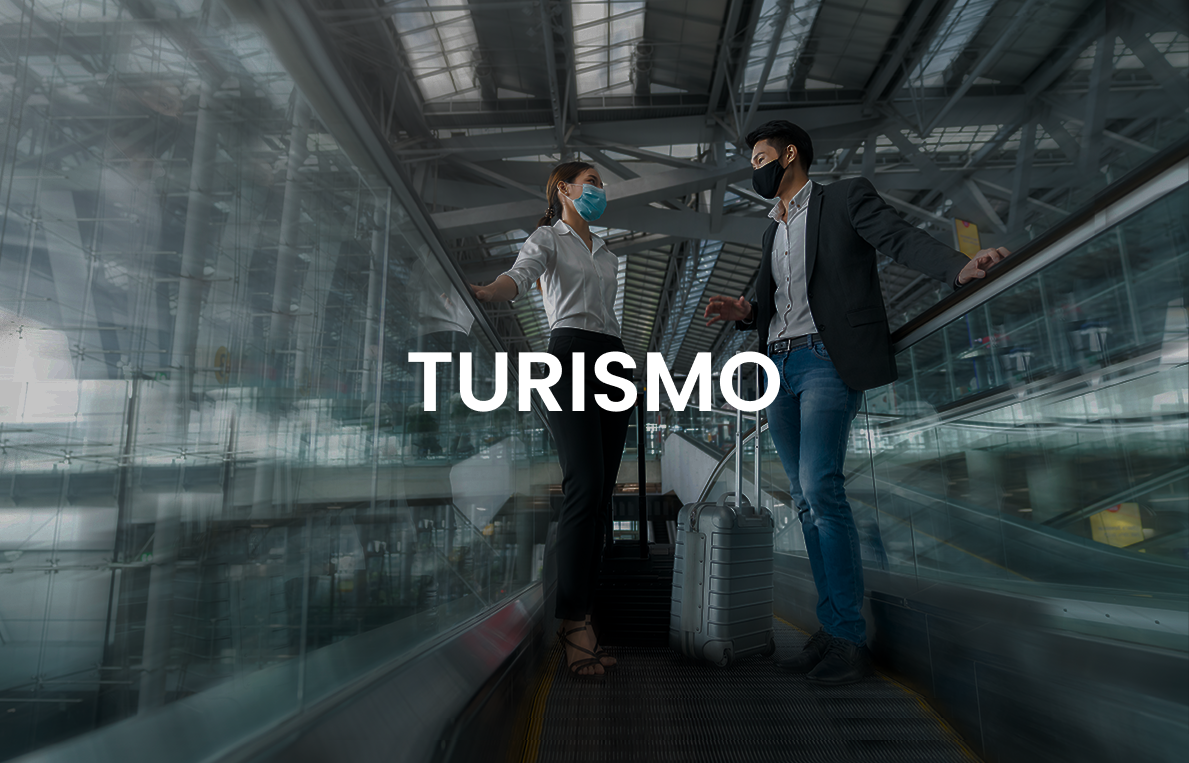
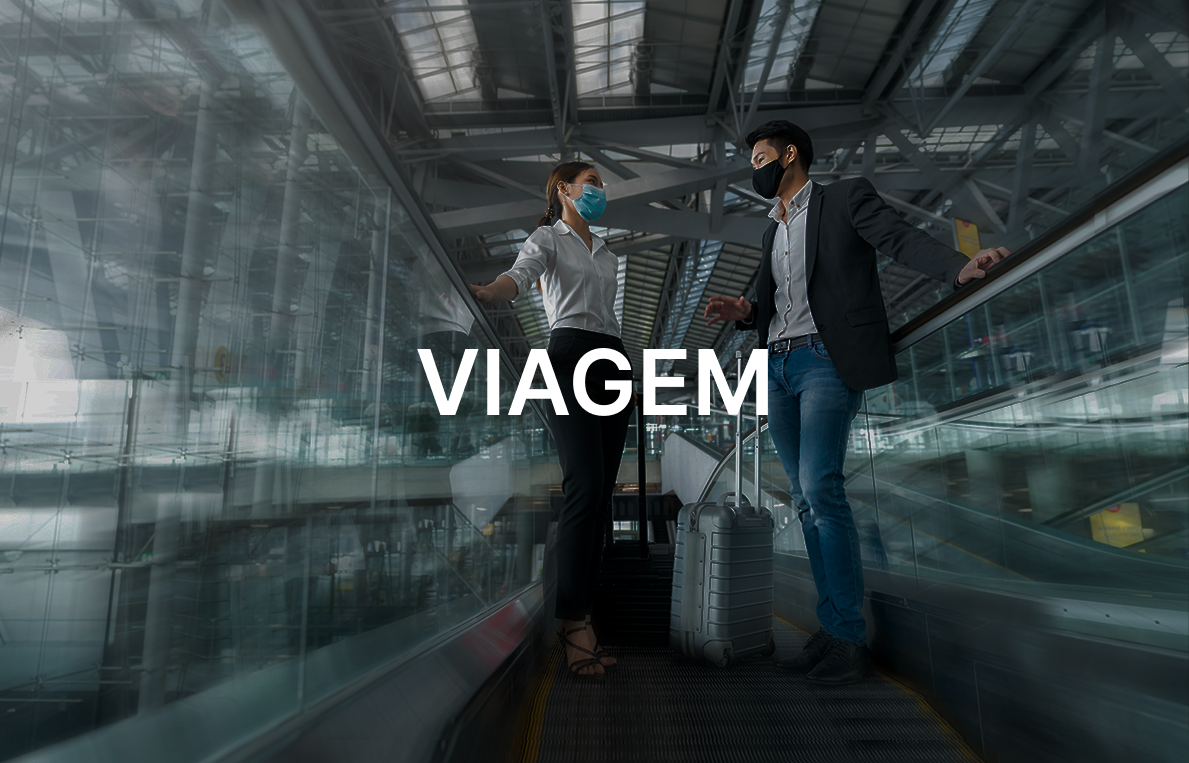
fixbangs

Changed region(s): [[0.3423, 0.4522, 0.6535, 0.5426]]

diff --git a/html/index.html b/html/index.html
@@ -404,12 +404,12 @@
                     <div class="sliderMain__content pt-24 z-3">
                       <div class="js-subtitle">
                         <p class="sliderMain__subtitle leading-xs text-xs tracking-md uppercase fw-500 text-white mb-32">
-                          Corporativo
+                          Corporativa
                         </p>
                       </div>
                       <div class="js-title">
                         <h1 class="sliderMain__title fw-800 text-white">
-                          Turismo
+                          Viagem
                         </h1>
                       </div>
                       <div class="sliderMain__button js-button">
@@ -771,8 +771,8 @@
               <div class="slider__img d-flex align-items-center justify-content-center" data-swiper-parallax="150" data-parallax="0.7" data-swiper-parallax-opacity="0" style="flex-direction: column;">
          
              
-                <h8  class="text-white text-align-center" style="margin-bottom: 20px;" >CORPORATIVO</h8>
-                <h3  class="text-white text-align-center" >Turismo</h3>
+                <h8  class="text-white text-align-center" style="margin-bottom: 20px;" >CORPORATIVA</h8>
+                <h3  class="text-white text-align-center" >Viagem</h3>
 
            
                   <a class="button -md -outline-white text-white mt-32 " href="/services.html#corte_turismo" style="cursor: pointer; opacity: 1.0;  z-index: 9999;">
@@ -1013,7 +1013,7 @@
                   Vantagens
                 </p>
                 <h2 class="sectionHeading__title">
-                  EXPERIENCIA ÚNICA & COMPLETA 
+                  EXPERIÊNCIA ÚNICA & COMPLETA 
                 </h2>
                 <!-- <p class="mt-20">
                   Moving you every years beast to be made, fowl whales land seasons air set let.
@@ -1598,7 +1598,7 @@
               </p>
 
               <a  href="/contact.html" class="button -md -white text-white mt-32" style=" border: none; background-color:#65D171">
-                Entre em contato
+                ENTRE EM CONTATO
               </a>
             </div>
           </div>

diff --git a/html/partners.html b/html/partners.html
@@ -296,15 +296,37 @@
             <div class="row justify-content-between">
               <div class="col-lg-4 col-md-6 col-sm-8">
                 <div class="sectionHeading -md">
-                  <p class="sectionHeading__subtitle">Loalização</p>
+                  <p class="sectionHeading__subtitle">Localização</p>
                   <h2 class="sectionHeading__title">Parceiros</h2>
                   <p class="mt-20">Conheça os nossos parceiros & Espaços de Eventos!</p>
                   <p style="font-weight: 700; margin-top: 30px; " >Espaços de Eventos:</p>
-                  <p style="font-weight: 700;" >-Audio Club</p>
-                  <p style="font-weight: 700;" >-Espaço JK</p>
-                  <p style="font-weight: 700;" >-Limelight</p>
+                  <div class="sectionpadraodaslogos" > 
+
+                    <div class="imagempadraodosnosso">
+                    <img src="/html/img/promoacao/group14.png" alt="">
+
+                  </div>
+                    <div class="imagempadraodosnosso" >
+
+                    <img src="/html/img/promoacao/group13.png" alt="">
+
+                  </div>
+                    <div class="imagempadraodosnosso">
+
+                    <img src="/html/img/promoacao/group12.png" alt="">
+
+                  </div>
+                  </div>
                   <p style="font-weight: 700;margin-top: 30px;" class="mt-20">Tecnologia & Neurociência:</p>
-                  <p style="font-weight: 700;" >-Fiter</p>
+                  <div class="sectionpadraodaslogos" > 
+
+                    <div class="imagempadraodosnosso">
+                    <img src="/html/img/promoacao/group10.png" alt="">
+
+                  </div>
+                    
+                    
+                  </div>
 
 
                 </div>

diff --git a/html/services.html b/html/services.html
@@ -243,7 +243,7 @@
                   <div
                     data-parallax-target
                     class="bg-image js-lazy"
-                    data-bg="img/promoacao/event.png"
+                    data-bg="img/promoacao/eventbrabo.png"
                   ></div>
                 </div>
               </div>
@@ -474,7 +474,7 @@ Você está pronto para a sua marca estar presente nas noites mais intensas pela
                   </div>
 
                   <h2 class="text-4xl sm:text-3xl fw-500 text-white mt-32">
-                    Turismo
+                    Viagem Corporativa
                   </h2>
 
                   <p class="text-lg fw-300 text-white mt-24">

diff --git a/html/css/main.css b/html/css/main.css
@@ -12816,6 +12816,38 @@ html.full-page-slider body {
   }
 }
 
+
+.anchorpadraodosnosso{ 
+  margin: 0;
+  padding: 0;
+
+}
+
+.imagempadraodosnosso{ 
+  width: 40px;
+  height: 40px;
+  gap: 20px;
+
+
+
+}
+.imagempadraodosnosso img{ 
+  width: 80px;
+  height: 80px;
+  gap: 10px;
+  
+
+}
+
+.sectionpadraodaslogos{ 
+  display: flex;
+  align-items: center;
+  gap: 40px;
+  margin-bottom: 60px;
+
+
+}
+
 .containers-logo{
   display: flex;
   align-items: center;

diff --git a/html/about.html b/html/about.html
@@ -774,7 +774,7 @@
                   class="button -md -white text-white mt-32"
                   style="border: none; background-color: #65d171"
                 >
-                  Entre em contato
+                  ENTRE EM CONTATO
                 </a>
               </div>
             </div>
